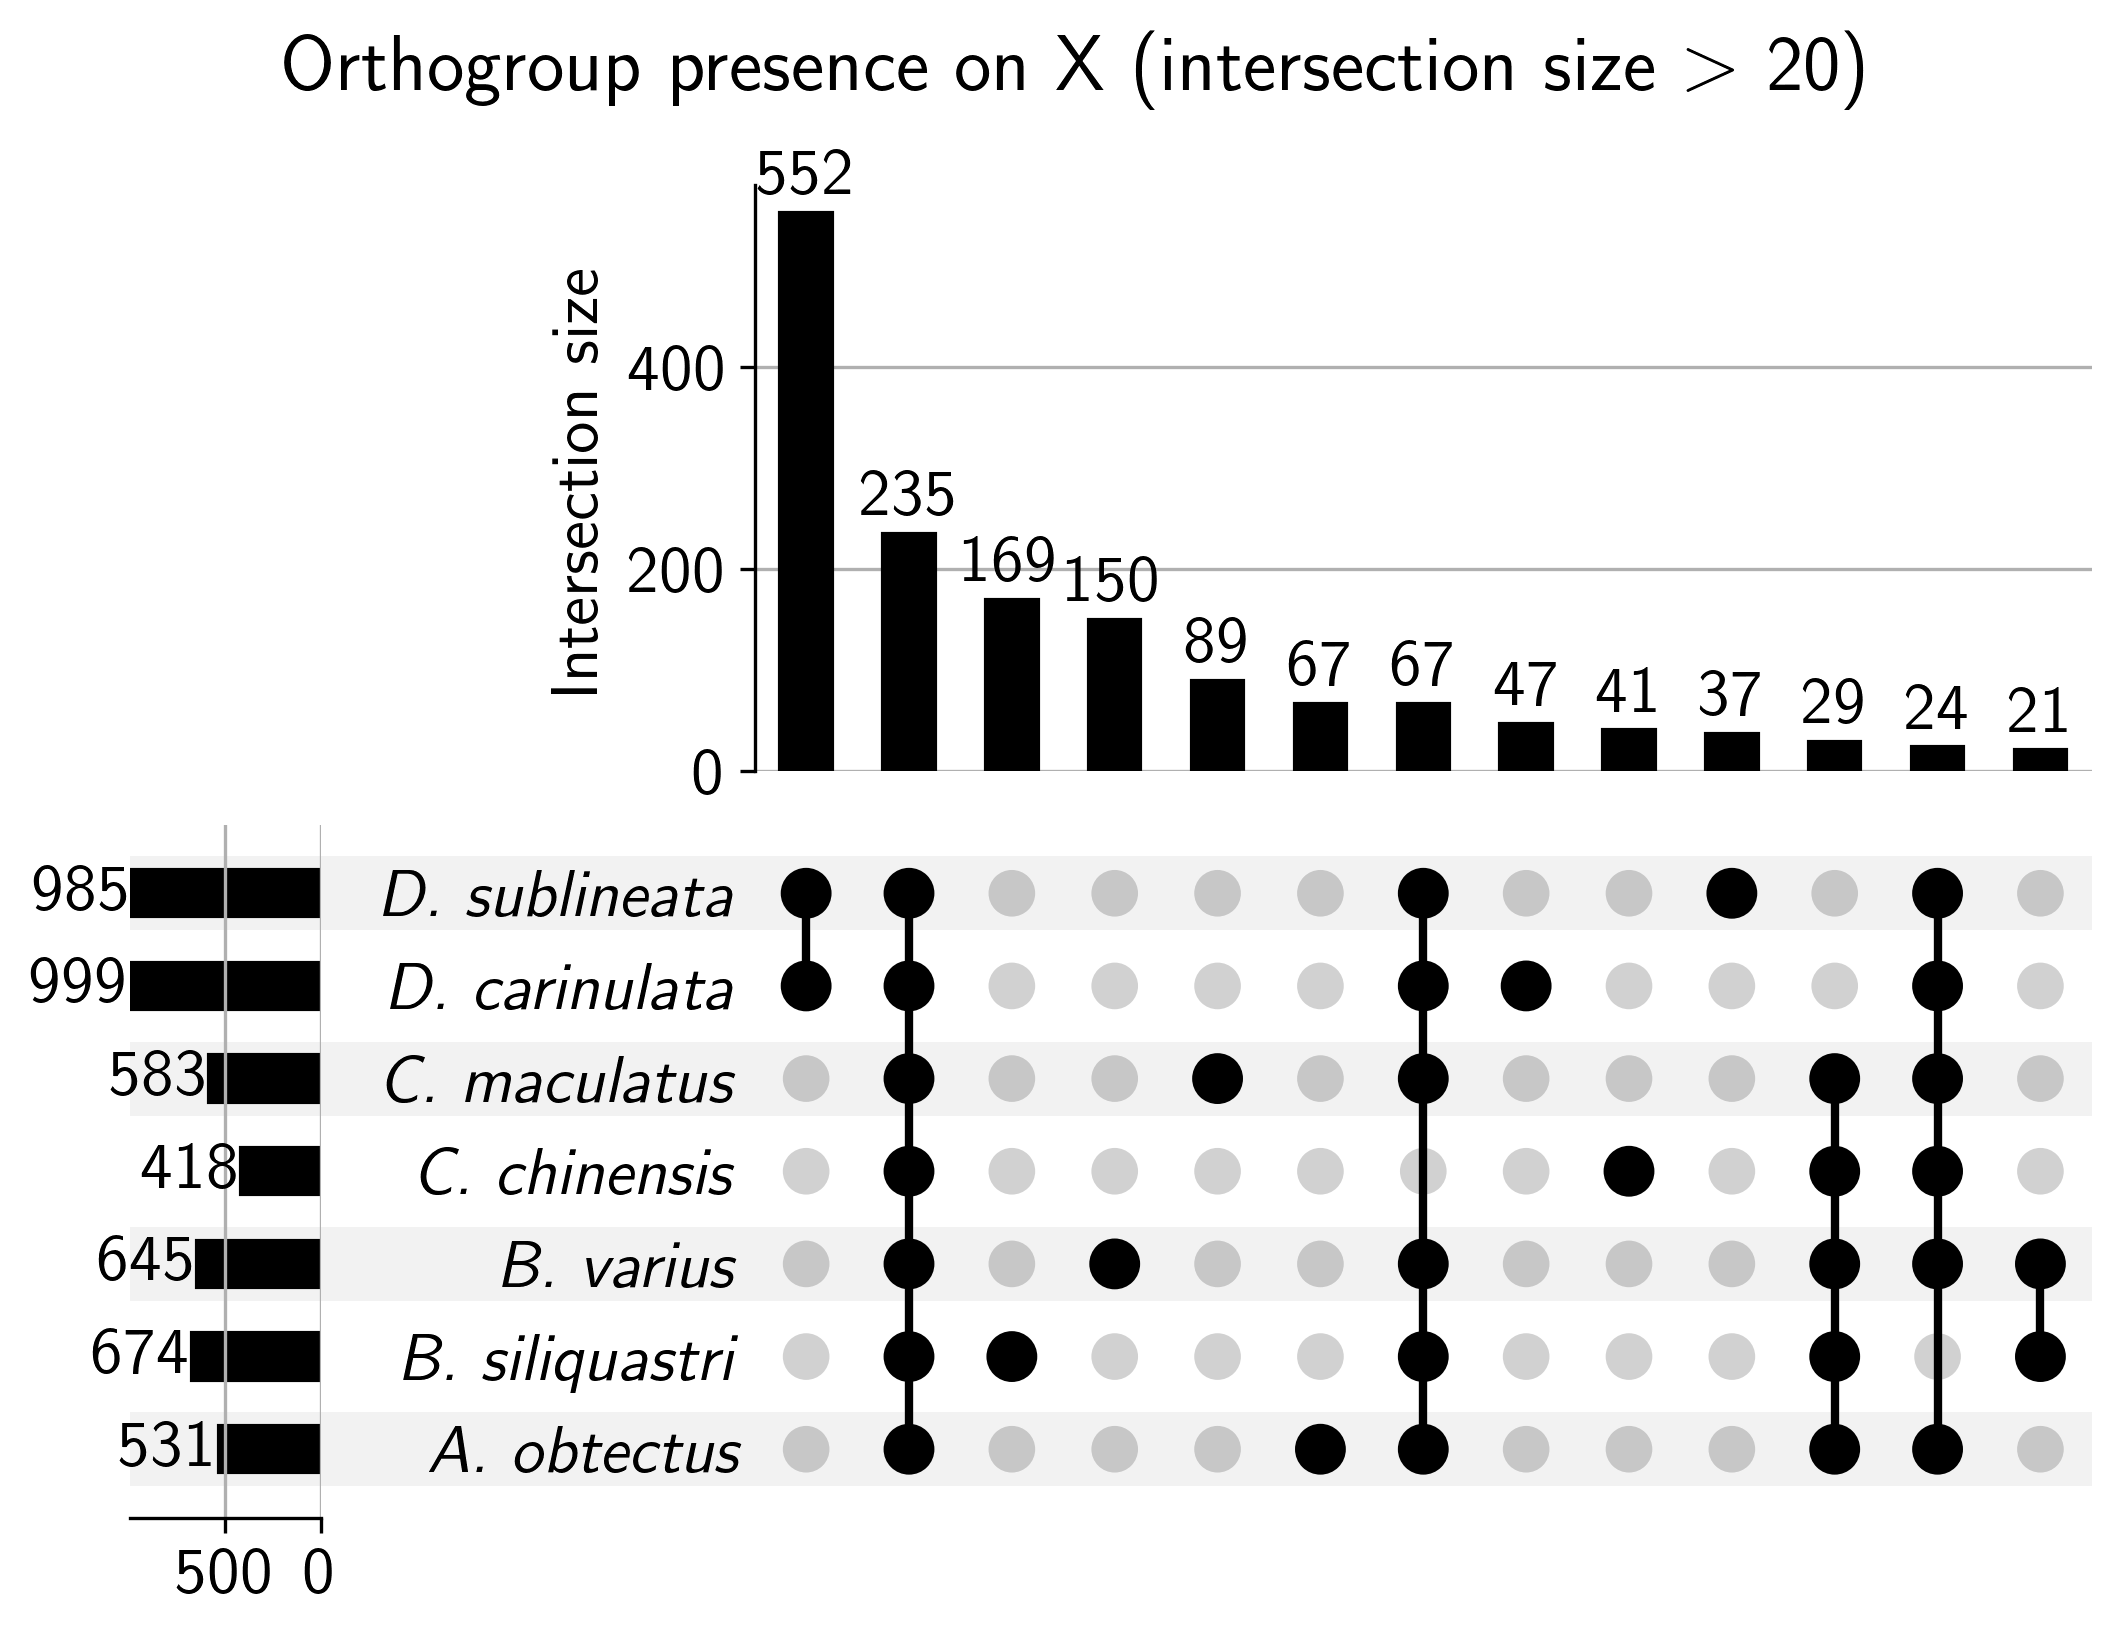
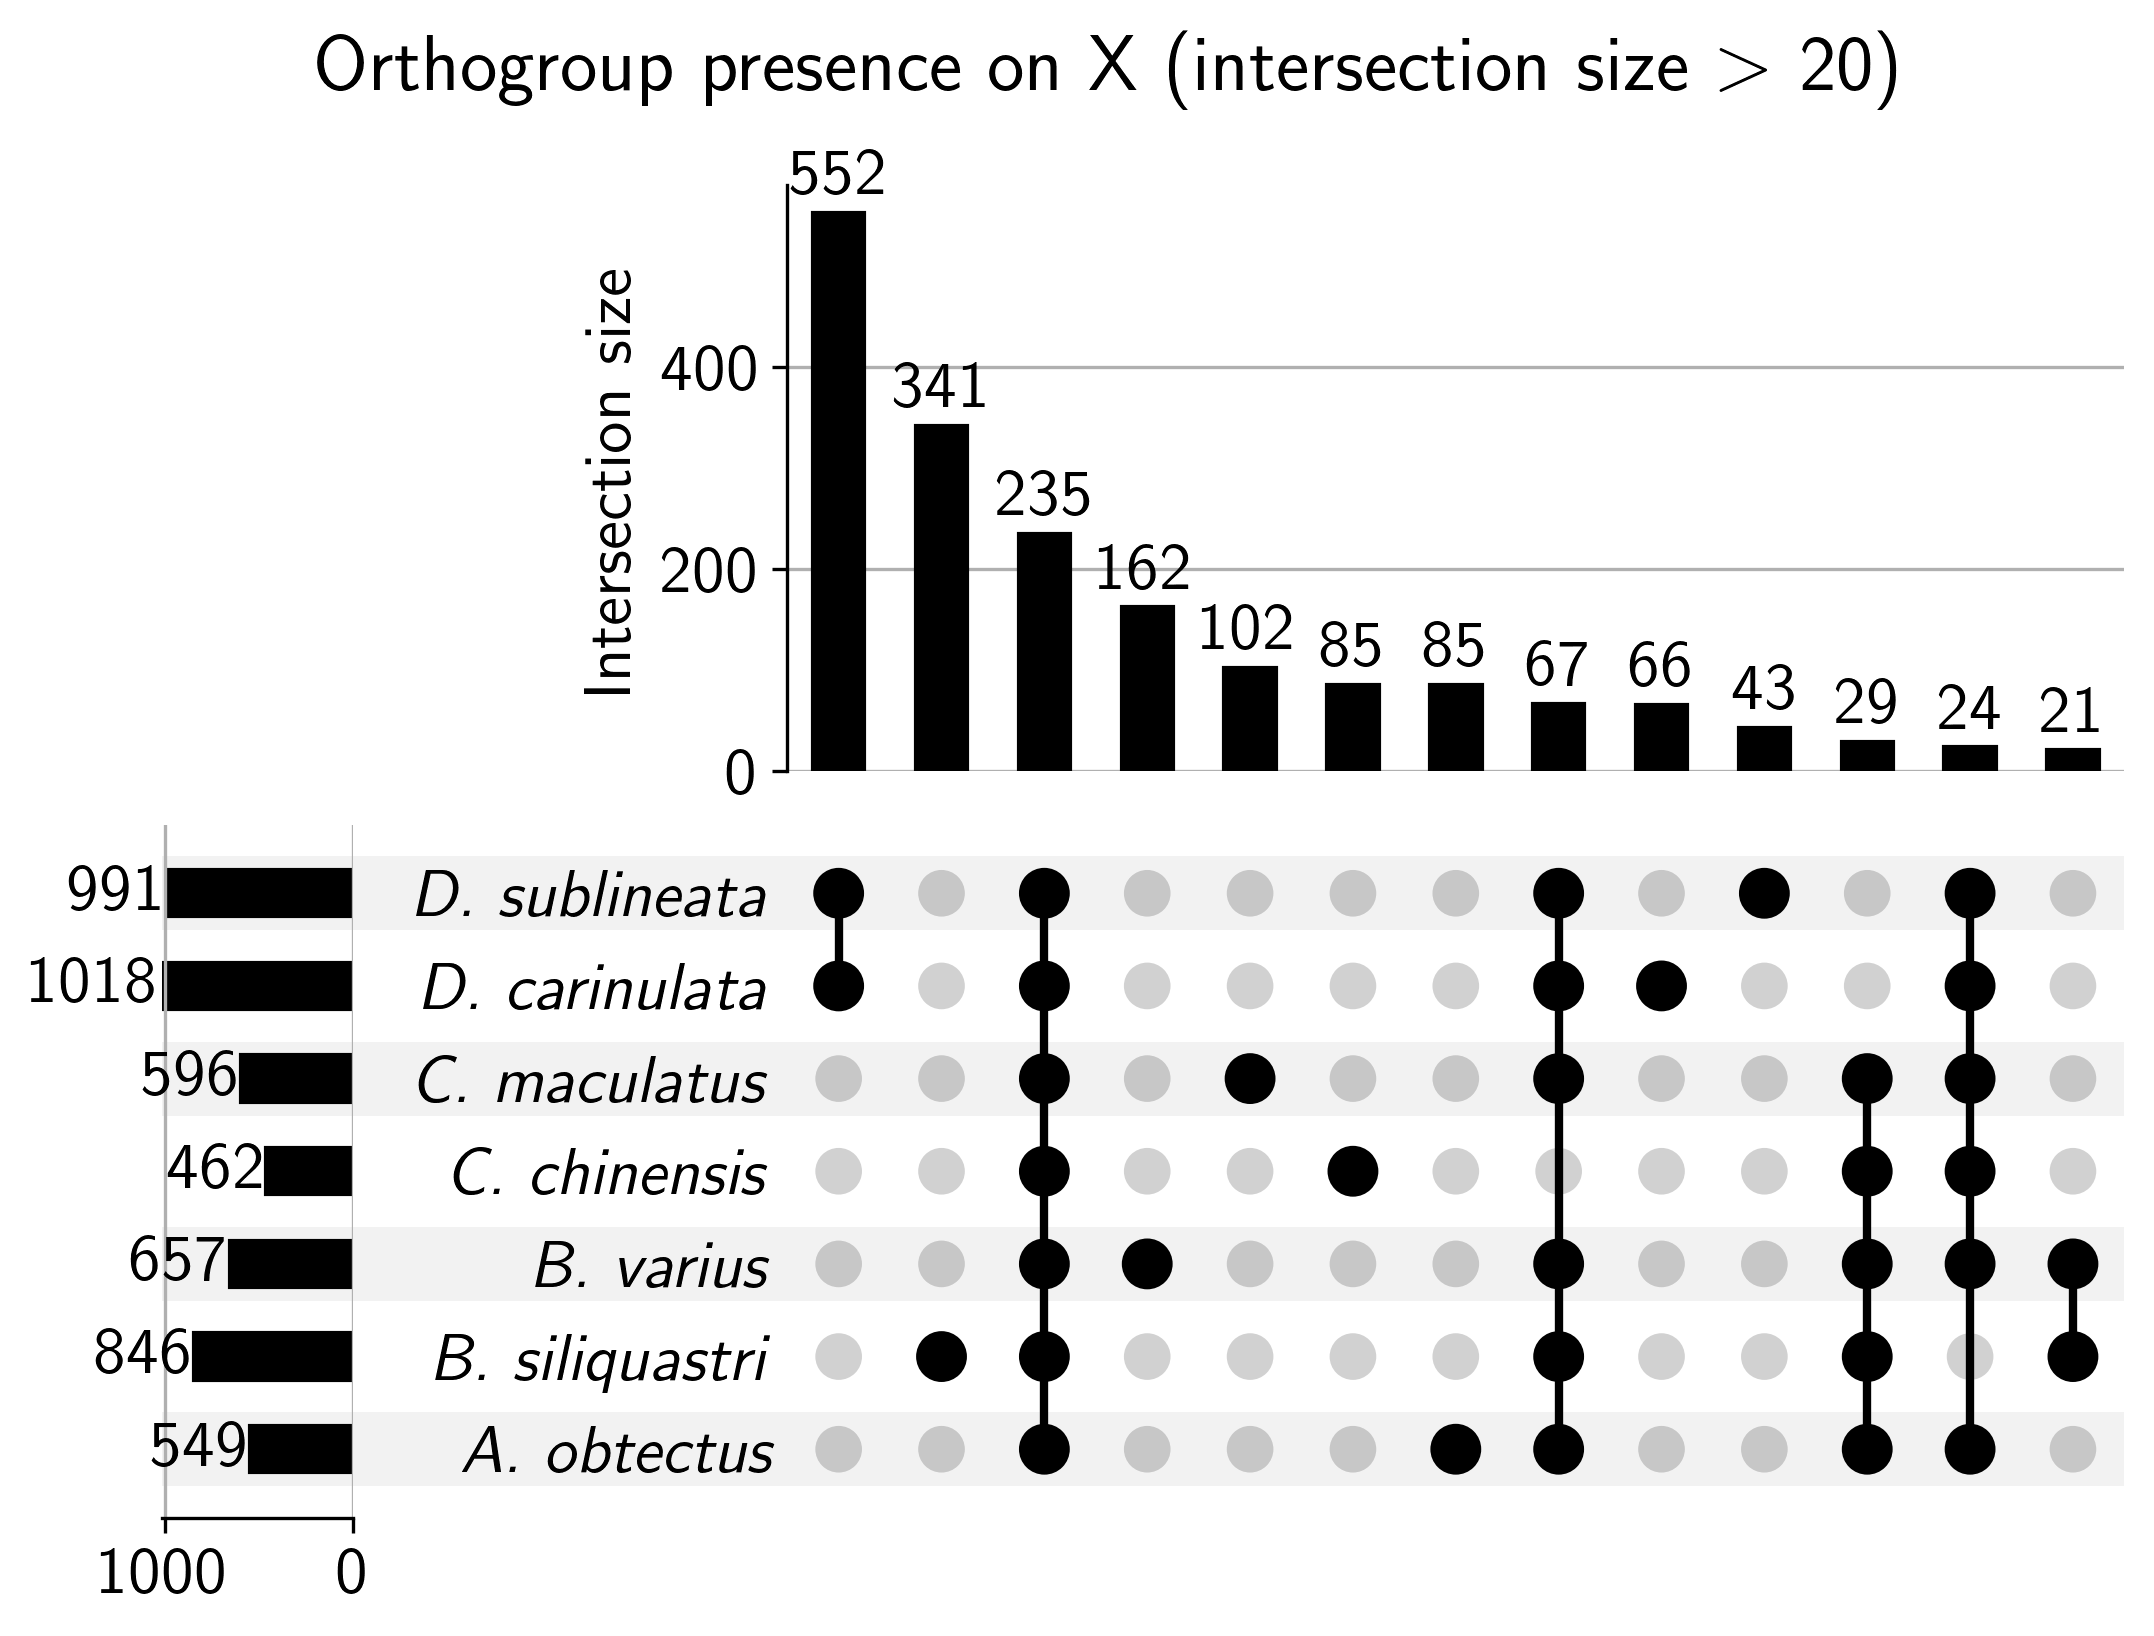
with unpaced scaffolds

diff --git a/index.html b/index.html
@@ -2818,12 +2818,14 @@ The min. sequence identity threshold is 95%, for min intron length see methods s
 
 <h3>Sex chromosome presence</h3>
 
+<p>All results here also include unplaced genes, they are treated as single-gene orthogroups.</p>
+
 <h4>Only gff-annotated proteins without miniprot paralogs</h4>
 
 <div style="float: left;width: 48%;">
     <p>
         Orthogroups with at least one member on the <b>X chromosome</b><br>
-        12886 orthogroups non-X-exclusive, 1757 are X-linked in at least one species
+        12886 orthogroups non-X-exclusive (17898 with unplaced genes), 1757 are X-linked in at least one species (2041 with unplaced genes).
     </p>
     <p float="left">
         <img loading="lazy" src="data/orthofinder/orthogroup_presence_X_upsetplot.png" width="90%" />
@@ -2839,7 +2841,7 @@ The min. sequence identity threshold is 95%, for min intron length see methods s
 <div style="float: right;width: 48%;">
     <p>
         Orthogroups with at least one member on the <b>Y chromosome</b><br>
-        14432 orthogroups non-Y-exclusive, 211 are Y-linked in at least one species.
+        14432 orthogroups non-Y-exclusive (19719 with unplaced genes), 211 are Y-linked in at least one species (220 with unplaced genes).
     </p>
     <p float="right">
         <img loading="lazy" src="data/orthofinder/orthogroup_presence_Y_upsetplot.png" width="90%" />
